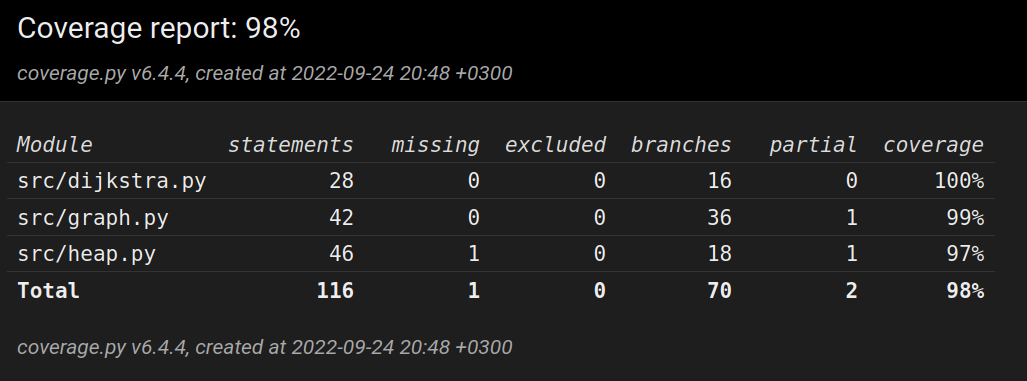
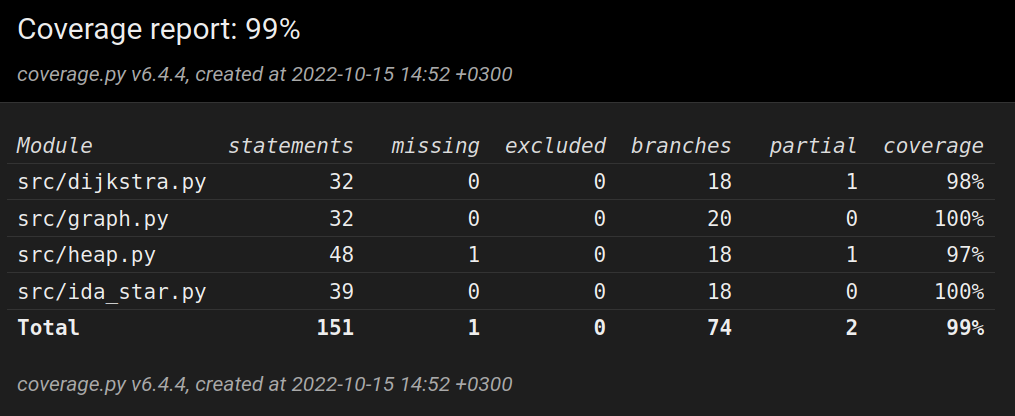
Improve tests

diff --git a/src/tests/ida_star_test.py b/src/tests/ida_star_test.py
@@ -1,0 +1,57 @@
+from math import inf
+from random import choice
+
+import unittest
+
+from ida_star import ida_star
+from dijkstra import dijkstra
+from graph import make_adjacency_lists
+
+
+class TestIdaStar(unittest.TestCase):
+    def setUp(self):
+        self.adjacency_lists, self.graph = make_adjacency_lists("src/maps/Map_20.map")
+        self.empty_squares = []
+        self.occupied_squares = []
+        # Kartan tyhjät ruudut, joihin ei ole kaikista muista tyhjistä ruuduista reittiä
+        self.unreachable_squares = [263, 283, 303]
+        for y in range(len(self.graph)):
+            for x in range(len(self.graph[0])):
+                node = y * len(self.graph) + x
+                if self.graph[y][x] == ".":
+                    if node in self.unreachable_squares:
+                        continue
+                    self.empty_squares.append(node)
+                else:
+                    self.occupied_squares.append(node)
+
+    def test_ida_star_finds_the_shortest_path_when_path_exists(self):
+        # Luodaan noin 25 satunnaista testitapausta 20×20-kokoiseen ruudukkoon
+        for _ in range(25):
+            start = choice(self.empty_squares)
+            end = choice(self.empty_squares)
+            ida_star_distance = ida_star(self.adjacency_lists, start, end)[1]
+            # Verrataan saatua tulosta Dijkstran algoritmin antamaan tulokseen
+            dijkstra_distance = dijkstra(self.adjacency_lists, start, end)[2]
+            # Tarkistetaan, että saadut tulokset vastaavat toisiaan kymmenen desimaalin tarkkuudella
+            self.assertAlmostEqual(ida_star_distance, dijkstra_distance, 10)
+
+    def test_ida_star_returns_inf_when_start_node_is_occupied(self):
+        for _ in range(5):
+            start = choice(self.occupied_squares)
+            end = choice(self.empty_squares)
+            distance = ida_star(self.adjacency_lists, start, end)[1]
+            self.assertEqual(distance, inf)
+
+    def test_ida_star_returns_inf_when_end_node_is_occupied(self):
+        for _ in range(5):
+            start = choice(self.empty_squares)
+            end = choice(self.occupied_squares)
+            distance = ida_star(self.adjacency_lists, start, end)[1]
+            self.assertEqual(distance, inf)
+
+    def test_ida_star_returns_inf_when_start_node_is_unreachable(self):
+        end_nodes = [221, 223, 225, 245, 265]
+        for end_node in end_nodes:
+            distance = ida_star(self.adjacency_lists, 263, end_node)[1]
+        self.assertEqual(distance, inf)

diff --git a/src/tests/performance_tests/dijkstra_performance_test.py b/src/tests/performance_tests/dijkstra_performance_test.py
@@ -1,0 +1,18 @@
+import unittest
+
+from dijkstra import dijkstra
+from tests.dijkstra_test import collect_known_distances
+from graph import make_adjacency_lists
+
+class TestDijkstra(unittest.TestCase):
+    def setUp(self):
+        self.adjacency_lists = make_adjacency_lists("src/maps/Berlin_0_256.map")[0]
+        self.known_distances = collect_known_distances("src/maps/Berlin_0_256.map.scen")
+
+    def test_dijkstra_finds_the_shortest_path(self):
+        for test_case in self.known_distances.items():
+            start_and_end, test_distance = test_case
+            start, end = start_and_end
+            distance = dijkstra(self.adjacency_lists, start, end)[2]
+            # Tarkistetaan, että arvot vastaavat toisiaan kuuden desimaalin tarkkuudella
+            self.assertAlmostEqual(distance, test_distance, 6)

diff --git a/tasks.py b/tasks.py
@@ -6,7 +6,11 @@ def start(ctx):
 
 @task
 def test(ctx):
-    ctx.run("pytest src", pty=True)
+    ctx.run("pytest --ignore=src/tests/performance_tests/ src", pty=True)
+
+@task
+def perf_test(ctx):
+    ctx.run("pytest src/tests/performance_tests", pty=True)
 
 @task
 def coverage(ctx):

diff --git a/dokumentaatio/testausdokumentti.md b/dokumentaatio/testausdokumentti.md
@@ -13,6 +13,7 @@ poetry run invoke coverage-report
 Tähän mennessä testausta on tehty:
 * [Heap](https://github.com/valtterikantanen/tiralabra/blob/master/src/heap.py/)-luokalle, joka toteuttaa Dijkstran algoritmissa vaadittavan minimikeon
 * [dijkstra.py](https://github.com/valtterikantanen/tiralabra/blob/master/src/dijkstra.py/)-tiedostolle, joka sisältää toteutuksen Dijkstran algoritmille
+* [ida_star.py](https://github.com/valtterikantanen/tiralabra/blob/master/src/ida_star.py/)-tiedostolle, joka sisältää toteutuksen IDA\*-algoritmille
 
 ### Testikattavuus
 
@@ -20,7 +21,7 @@ Sovelluksen testikattavuus näyttää tällä hetkellä tältä:
 
 ![](./kuvat/testikattavuus.png)
 
-Sovelluksen testauksen haaraumakattavuus on näin ollen 98 %. Testikattavuuden ulkopuolelle on jätetty hakemisto `src/tests/` sekä tiedostot `__init__.py` ja `index.py`.
+Sovelluksen testauksen haaraumakattavuus on näin ollen 99 %. Testikattavuuden ulkopuolelle on jätetty käyttöliittymäkoodin sisältävä hakemisto `src/ui/` ja testaukseen käytettävän koodin sisältävä hakemisto `src/tests/` sekä tiedostot `__init__.py` ja `index.py`.
 
 ### Dijkstran algoritmin toiminnallisuuden testaus
 Dijkstran algoritmin testaus on toteutettu niin, että esimerkkikarttojen yhteydessä samalta sivustolta on ladattu [esimerkkiskenaarioita](https://github.com/valtterikantanen/tiralabra/blob/master/src/maps/Berlin_0_256.map.scen), joista ilmenee 930 eri pisteparin väliset etäisyydet. Testauksen yhteydessä näistä valitaan satunnaisesti viisitoista, ja ohjelman antamaa tulosta verrataan tiedettyyn etäisyyteen. Testi on asetettu menemään läpi, jos etäisyydet ovat kuuden desimaalin tarkkuudella samat.
